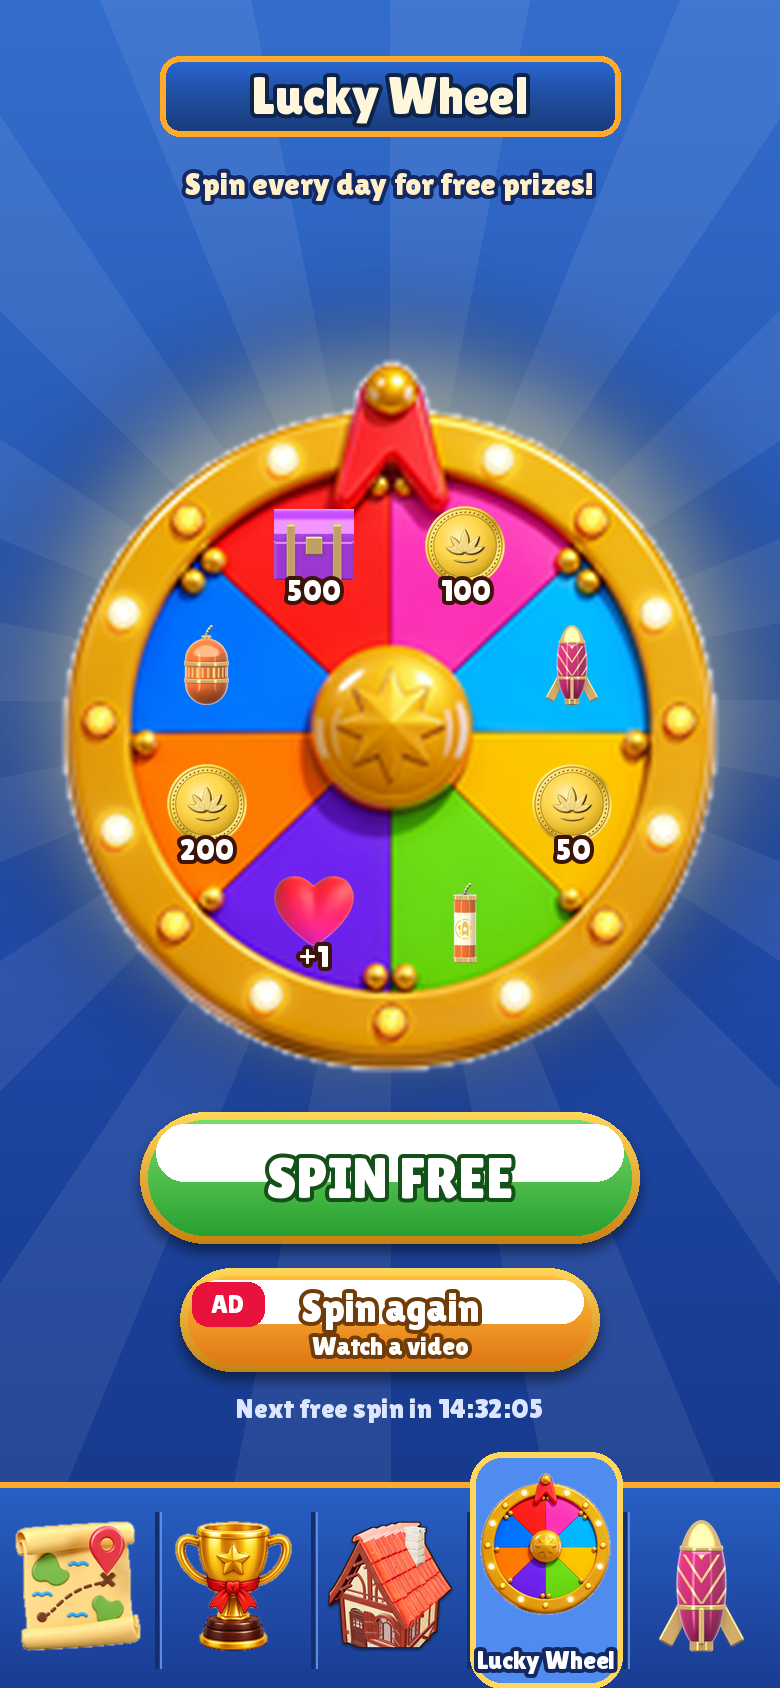
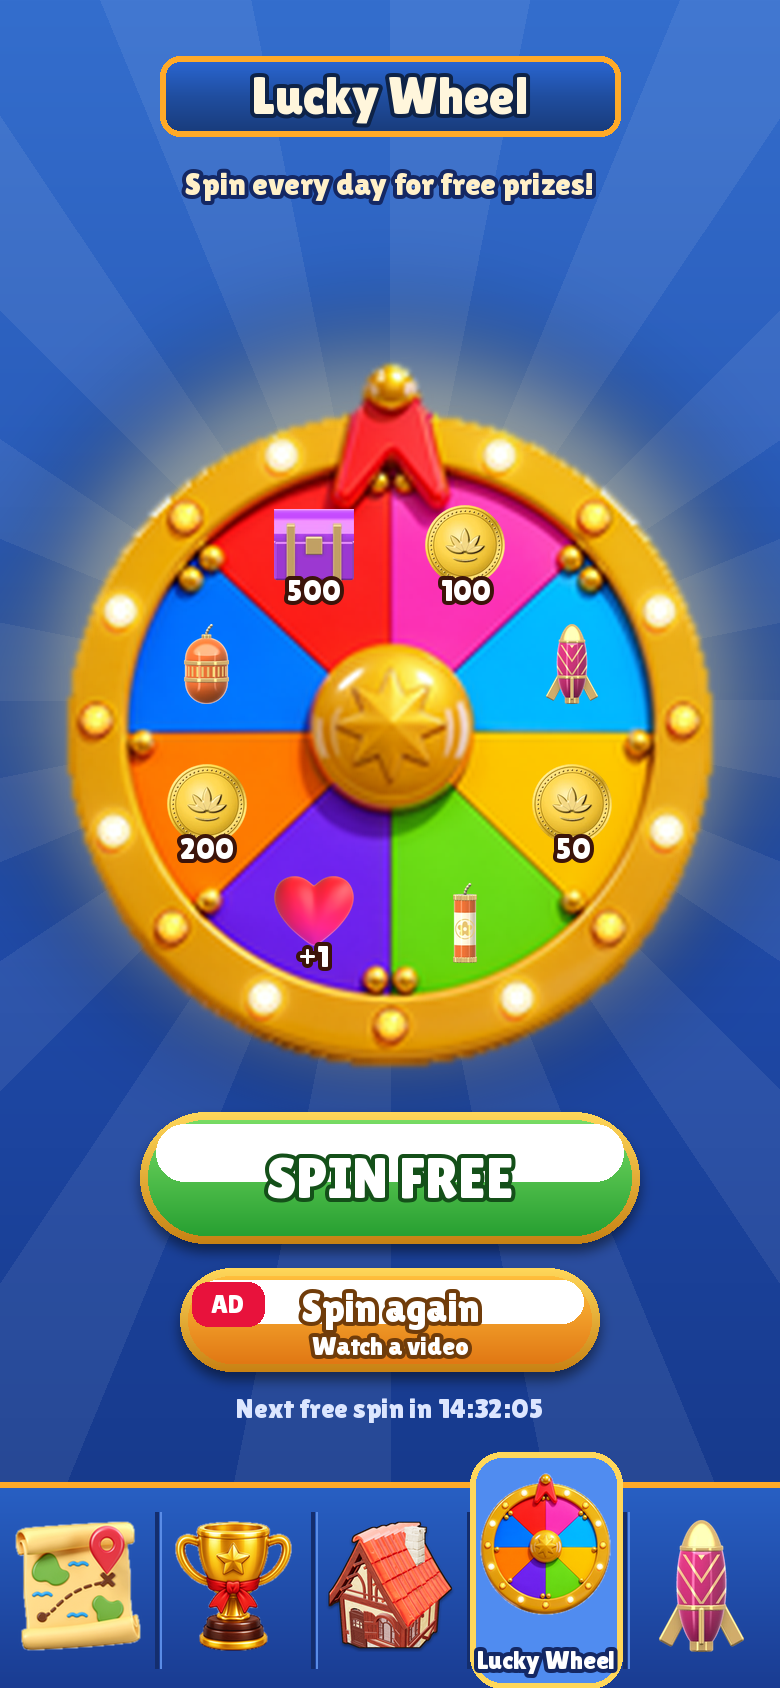
Lucky Wheel mockup: remove white fringe on wheel edge
Claude-Session: https://claude.ai/code/session_01JoFRX37DvCFxf26vhiSu8C

diff --git a/godot/tools/pic/wheel_page_mock.py b/godot/tools/pic/wheel_page_mock.py
@@ -39,9 +39,12 @@ d=ImageDraw.Draw(im); d.text((195*S,92*S),'Spin every day for free prizes!',font
 a=np.array(Image.open('/tmp/v/wheel_src.png').convert('RGB')).astype(float); mn=a.min(2); sat=a.max(2)-mn
 light=(mn>238)|((mn>150)&(sat<22)); lab,n=ndimage.label(light)
 edge=set(np.unique(np.concatenate([lab[0],lab[-1],lab[:,0],lab[:,-1]])))-{0}
-bg=np.isin(lab,list(edge)); al=ndimage.gaussian_filter(np.where(bg,0.0,1.0),0.6)
+bg=np.isin(lab,list(edge)); fg=ndimage.binary_erosion(ndimage.binary_fill_holes(~bg),iterations=2)
+# edge pixels take the colour of the nearest solid inside pixel (no white fringe)
+_,ix=ndimage.distance_transform_edt(~ndimage.binary_erosion(fg,iterations=1),return_indices=True); a=a[ix[0],ix[1]]
+al=ndimage.gaussian_filter(fg.astype(float),0.7)
 wh=Image.fromarray(np.dstack([a,al*255]).astype(np.uint8),'RGBA'); wh=wh.crop(wh.getbbox())
-WS=330*S; wh=wh.resize((WS,int(WS*wh.height/wh.width)),Image.LANCZOS); wh=ImageEnhance.Sharpness(wh).enhance(1.6)
+WS=330*S; wh=wh.resize((WS,int(WS*wh.height/wh.width)),Image.LANCZOS); wh=ImageEnhance.Sharpness(wh).enhance(1.3)
 glow=Image.new('RGBA',(W,H),(0,0,0,0)); ImageDraw.Draw(glow).ellipse([cx-185*S,cy-185*S,cx+185*S,cy+185*S],fill=(255,220,120,120)); im.alpha_composite(glow.filter(ImageFilter.GaussianBlur(24*S)))
 wx,wy=int(cx-WS/2),int(cy-wh.height/2+8*S); im.alpha_composite(wh,(wx,wy))
 # prizes on the 8 segments (centre of the wheel = image centre slightly below the pointer)
